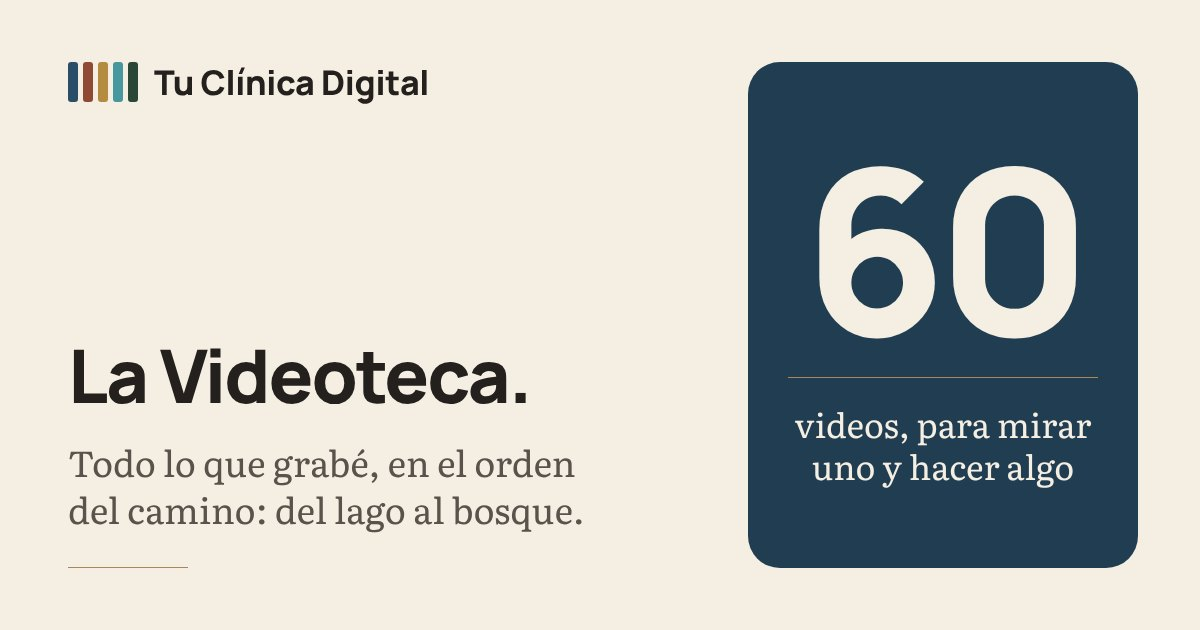
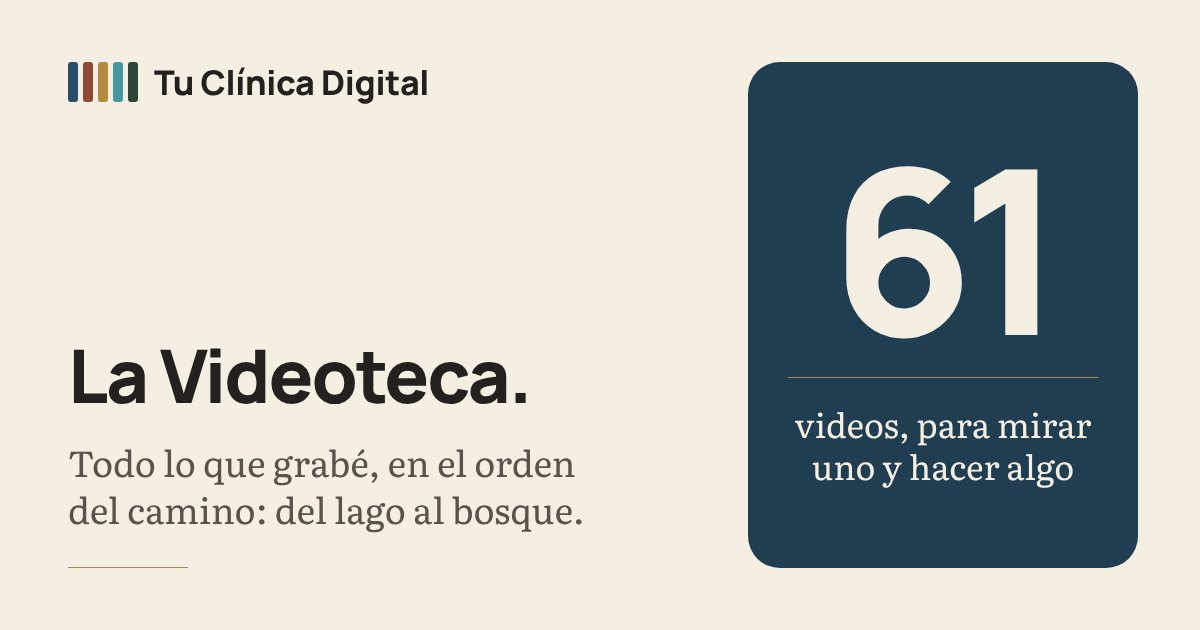
La Videoteca: 61 videos en la portada
Claude-Session: https://claude.ai/code/session_01F3G6KA8NwVi5HfVd6v6rza

Changed region(s): [[0.6783, 0.2413, 0.8942, 0.5429], [0.8325, 0.2413, 0.8633, 0.2714]]

diff --git a/og/videoteca.py b/og/videoteca.py
@@ -8,7 +8,7 @@ import tarjeta as T
 
 T.T.clear()
 t = T.t
-t('videoteca', 'La Videoteca.', 'Todo lo que grabé, en el orden del camino: del lago al bosque.', 'lago2', T.numeral('60', 'videos, para mirar uno y hacer algo'))
+t('videoteca', 'La Videoteca.', 'Todo lo que grabé, en el orden del camino: del lago al bosque.', 'lago2', T.numeral('61', 'videos, para mirar uno y hacer algo'))
 t('empieza', 'Empieza aquí.', 'Dos videos para ordenar todo lo demás.', 'papel2', T.lomos_grandes())
 t('lago', 'El lago.', 'Mírate antes de moverte.', 'papel2', T.tapas('lago'))
 t('montana', 'La montaña.', 'Tu programa y tu precio.', 'papel2', T.tapas('montana'))
